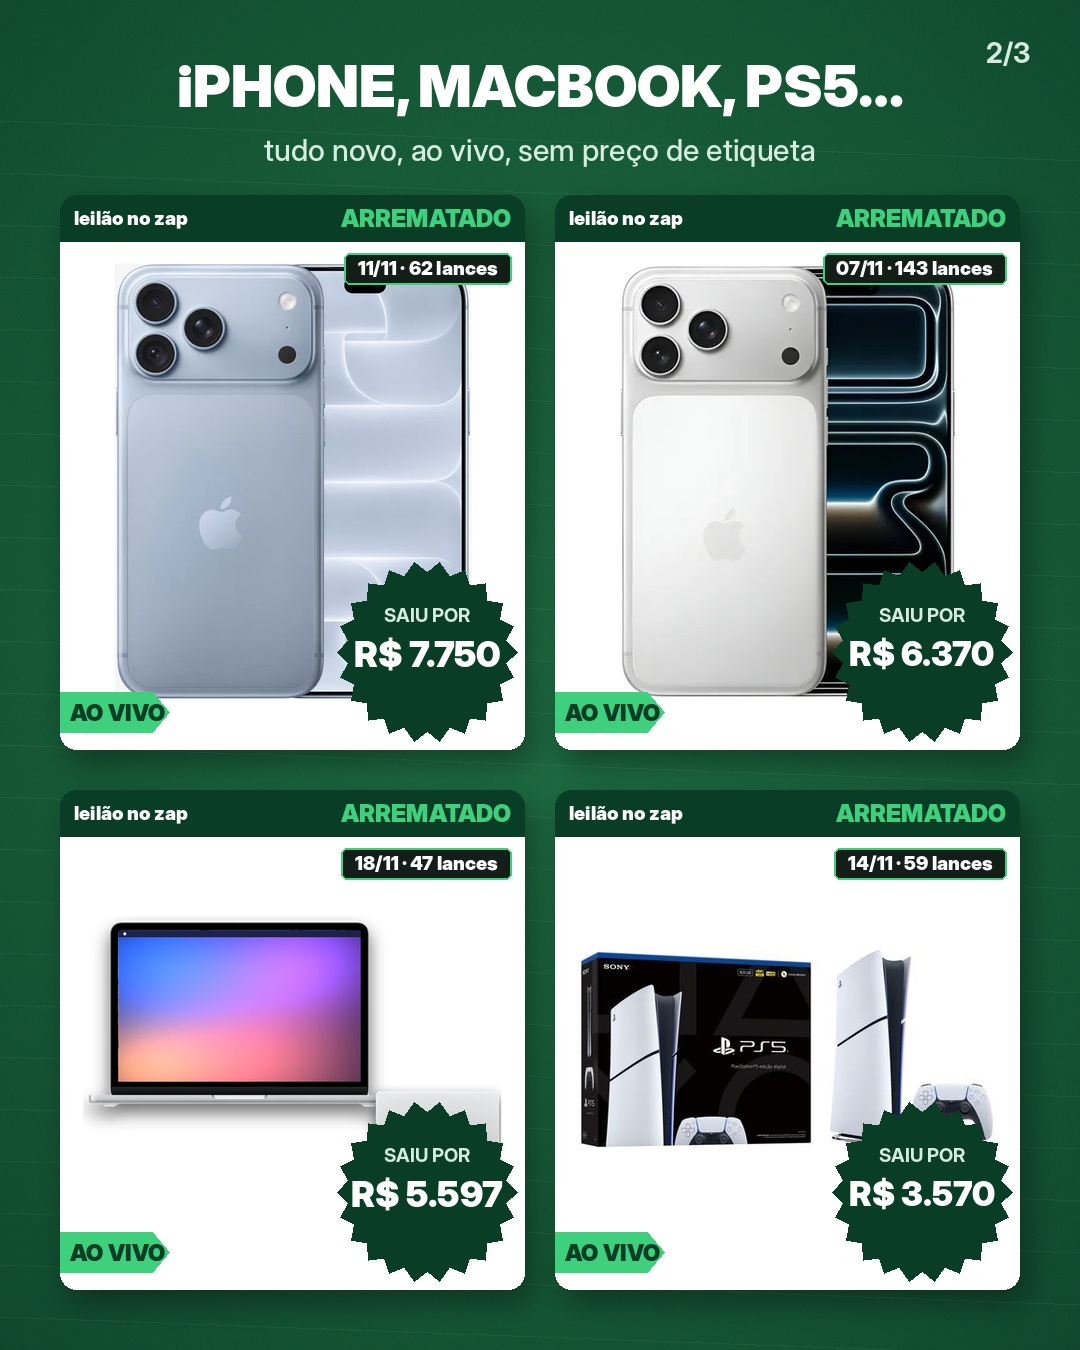
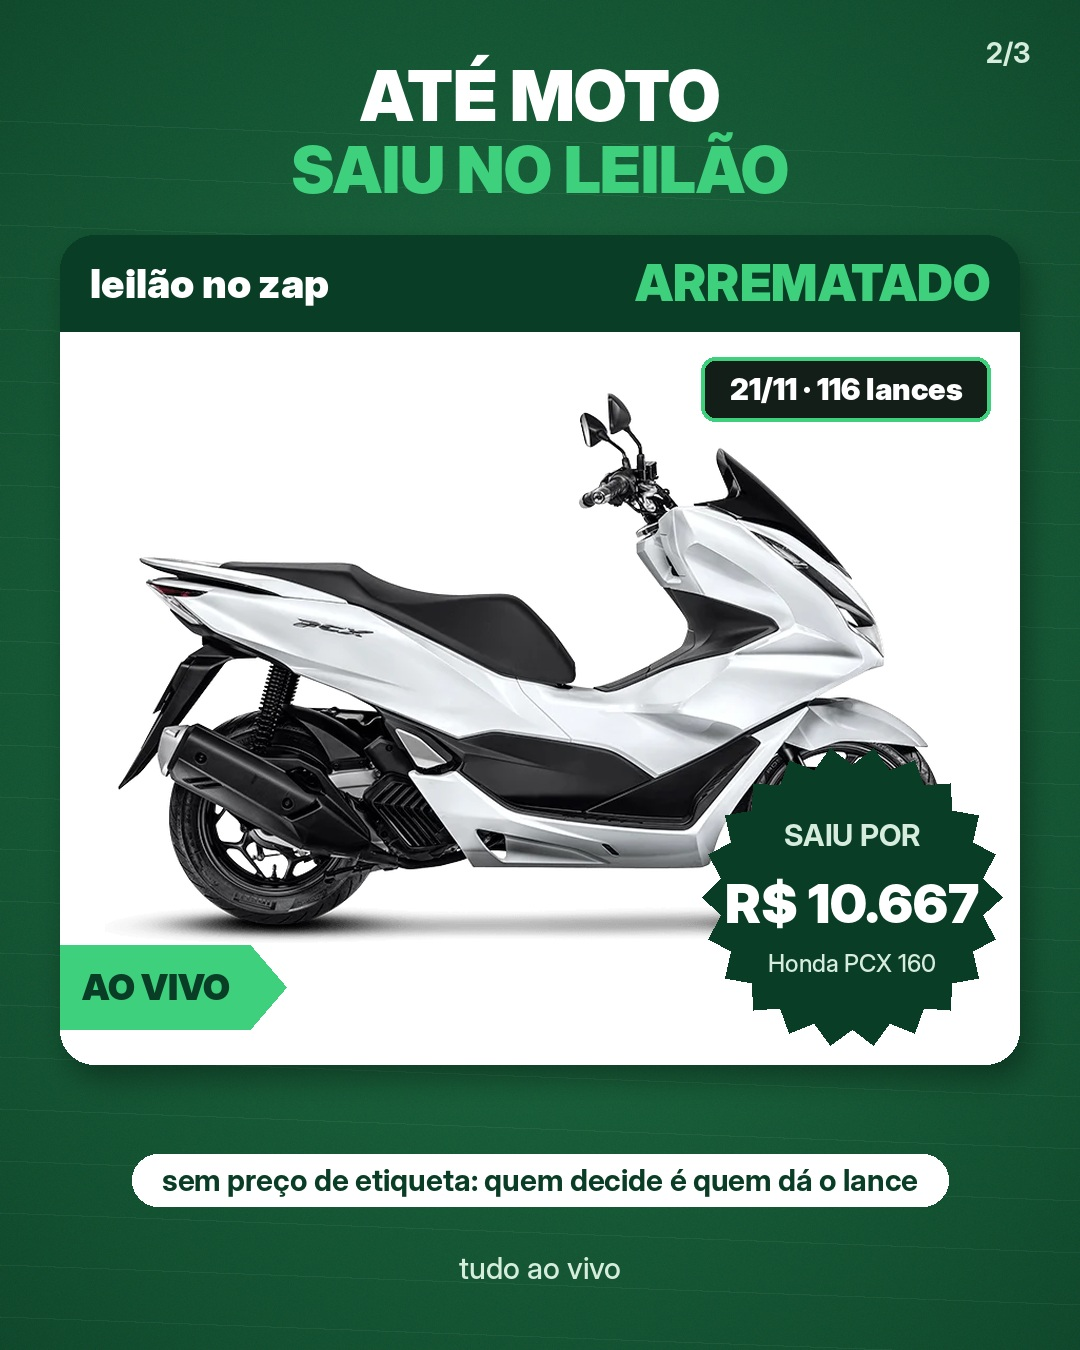
Carrossel dos arrematados: capa com iPhones/MacBook/PS5, moto na 2, chamada para quarta na 3
Claude-Session: https://claude.ai/code/session_01JihU9VfVTYTrMqQpApFEjH

diff --git a/marketing/semana-2026-11-16/arrematados/fonte/carrossel_arrematados.py b/marketing/semana-2026-11-16/arrematados/fonte/carrossel_arrematados.py
@@ -19,27 +19,31 @@ def sombra(b, x, y, c):
 def pag(d, n): d.text((W - 50, 52), f'{n}/3', font=F('Bold', 28), fill=MENTA, anchor='rm')
 def pil(d, cy, t, f, fu, co, px=34):
     w = d.textlength(t, font=f); d.rounded_rectangle((W / 2 - w / 2 - px, cy - f.size * .85, W / 2 + w / 2 + px, cy + f.size * .85), f.size, fill=fu); d.text((W / 2, cy), t, font=f, fill=co, anchor='mm')
-# 1 · capa
+# (23/11) Natália: a moto já tem 2 posts no feed → capa com iPhones, MacBook e PS5; a moto na página 2; página 3 chama pra quarta.
+# 1 · capa (útil): os 4 arrematados que não são a moto
 b = fundo(); d = ImageDraw.Draw(b); pag(d, 1)
-d.text((W / 2, 95), 'QUANTO SAIU CADA UM', font=F('Black', 64), fill=BR, anchor='mm'); d.text((W / 2, 170), 'NO LEILÃO? 👀'.replace(' 👀', ''), font=F('Black', 64), fill=NEON, anchor='mm')   # útil: valor real
-sombra(b, 60, 235, card('pcx', 960, 830)); d = ImageDraw.Draw(b)
-pil(d, 1180, 'valores reais · quem decide o preço é você', F('Bold', 32), BR, VE, 36)   # útil + único
-d.text((W / 2, 1268), 'arrasta pro lado  →', font=F('Bold', 32), fill=MENTA, anchor='mm')
+d.text((W / 2, 90), 'QUANTO SAIU CADA UM', font=F('Black', 64), fill=BR, anchor='mm'); d.text((W / 2, 162), 'NO LEILÃO?', font=F('Black', 64), fill=NEON, anchor='mm')
+sombra(b, 60, 220, card('iphone18', 465, 490)); sombra(b, 555, 220, card('iphone17', 465, 490))
+sombra(b, 60, 735, card('macbook', 465, 470)); sombra(b, 555, 735, card('ps5', 465, 470)); d = ImageDraw.Draw(b)
+pil(d, 1268, 'valores reais · arrasta pro lado  →', F('Bold', 32), BR, VE, 36)
 b.convert('RGB').save(f'{OUT}/CARROSSEL-arrematados-1.jpg', quality=94)
-# 2 · iPhones, MacBook, PS5
+# 2 · a moto (único)
 b = fundo(); d = ImageDraw.Draw(b); pag(d, 2)
-d.text((W / 2, 85), 'iPHONE, MACBOOK, PS5…', font=F('Black', 58), fill=BR, anchor='mm'); d.text((W / 2, 150), 'tudo novo, ao vivo, sem preço de etiqueta', font=F('Medium', 30), fill=MENTA, anchor='mm')   # único
-sombra(b, 60, 195, card('iphone18', 465, 555)); sombra(b, 555, 195, card('iphone17', 465, 555))
-sombra(b, 60, 790, card('macbook', 465, 500)); sombra(b, 555, 790, card('ps5', 465, 500))
+d.text((W / 2, 95), 'ATÉ MOTO', font=F('Black', 70), fill=BR, anchor='mm'); d.text((W / 2, 170), 'SAIU NO LEILÃO', font=F('Black', 64), fill=NEON, anchor='mm')
+sombra(b, 60, 235, card('pcx', 960, 830)); d = ImageDraw.Draw(b)
+pil(d, 1180, 'sem preço de etiqueta: quem decide é quem dá o lance', F('Bold', 30), BR, VE, 30)
+d.text((W / 2, 1268), 'tudo ao vivo', font=F('Medium', 30), fill=MENTA, anchor='mm')
 b.convert('RGB').save(f'{OUT}/CARROSSEL-arrematados-2.jpg', quality=94)
-# 3 · TV + pedido único
+# 3 · leilão de quarta (urgente) + pedido único
 b = fundo(); d = ImageDraw.Draw(b); pag(d, 3)
-d.text((W / 2, 85), 'QUARTA, 20H', font=F('Black', 72), fill=NEON, anchor='mm'); d.text((W / 2, 155), 'o próximo pode ser seu', font=F('Black', 44), fill=BR, anchor='mm')   # urgente
-sombra(b, 180, 205, card('tv', 720, 545)); d = ImageDraw.Draw(b)
-d.rounded_rectangle((90, 820, W - 90, 1130), 40, fill=BR)
-d.text((W / 2, 880), 'QUER ENTRAR ANTES DE QUARTA?', font=F('Black', 42), fill=(27, 122, 72), anchor='mm')
-d.text((W / 2, 985), 'Comenta LEILÃO', font=F('Black', 92), fill=VE, anchor='mm')
-d.text((W / 2, 1075), 'que eu te mando o link no direct', font=F('Medium', 36), fill=(27, 122, 72), anchor='mm')
-lg = Image.open('/home/user/Leil-onozaplivoo/marketing/marca/logo-horizontal-transparente.png').convert('RGBA'); lg.thumbnail((200, 200)); b.alpha_composite(lg, ((W - lg.width) // 2, 1190))
+d.text((W / 2, 120), 'QUARTA, 20H', font=F('Black', 110), fill=NEON, anchor='mm'); d.text((W / 2, 230), 'TEM LEILÃO DE NOVO', font=F('Black', 62), fill=BR, anchor='mm')
+mt = Image.open('/home/user/Leil-onozaplivoo/marketing/marca/leiloeiro-martelo-sem-fundo.png').convert('RGBA'); mt.thumbnail((470, 470))
+sh = Image.new('RGBA', (W, H)); ImageDraw.Draw(sh).ellipse((W / 2 - 200, 770, W / 2 + 200, 800), fill=(0, 0, 0, 110)); b.alpha_composite(sh.filter(ImageFilter.GaussianBlur(16)))
+b.alpha_composite(mt, ((W - mt.width) // 2, 785 - mt.height)); d = ImageDraw.Draw(b)
+d.text((W / 2, 845), 'o próximo pode ser seu', font=F('Bold', 44), fill=MENTA, anchor='mm')
+d.rounded_rectangle((90, 905, W - 90, 1160), 40, fill=BR)
+d.text((W / 2, 985), 'Comente LEILÃO', font=F('Black', 92), fill=VE, anchor='mm')
+d.text((W / 2, 1085), 'para participar do leilão de quarta', font=F('Bold', 38), fill=(27, 122, 72), anchor='mm')
+lg = Image.open('/home/user/Leil-onozaplivoo/marketing/marca/logo-horizontal-transparente.png').convert('RGBA'); lg.thumbnail((200, 200)); b.alpha_composite(lg, ((W - lg.width) // 2, 1205))
 b.convert('RGB').save(f'{OUT}/CARROSSEL-arrematados-3.jpg', quality=94)
 print('ok')
